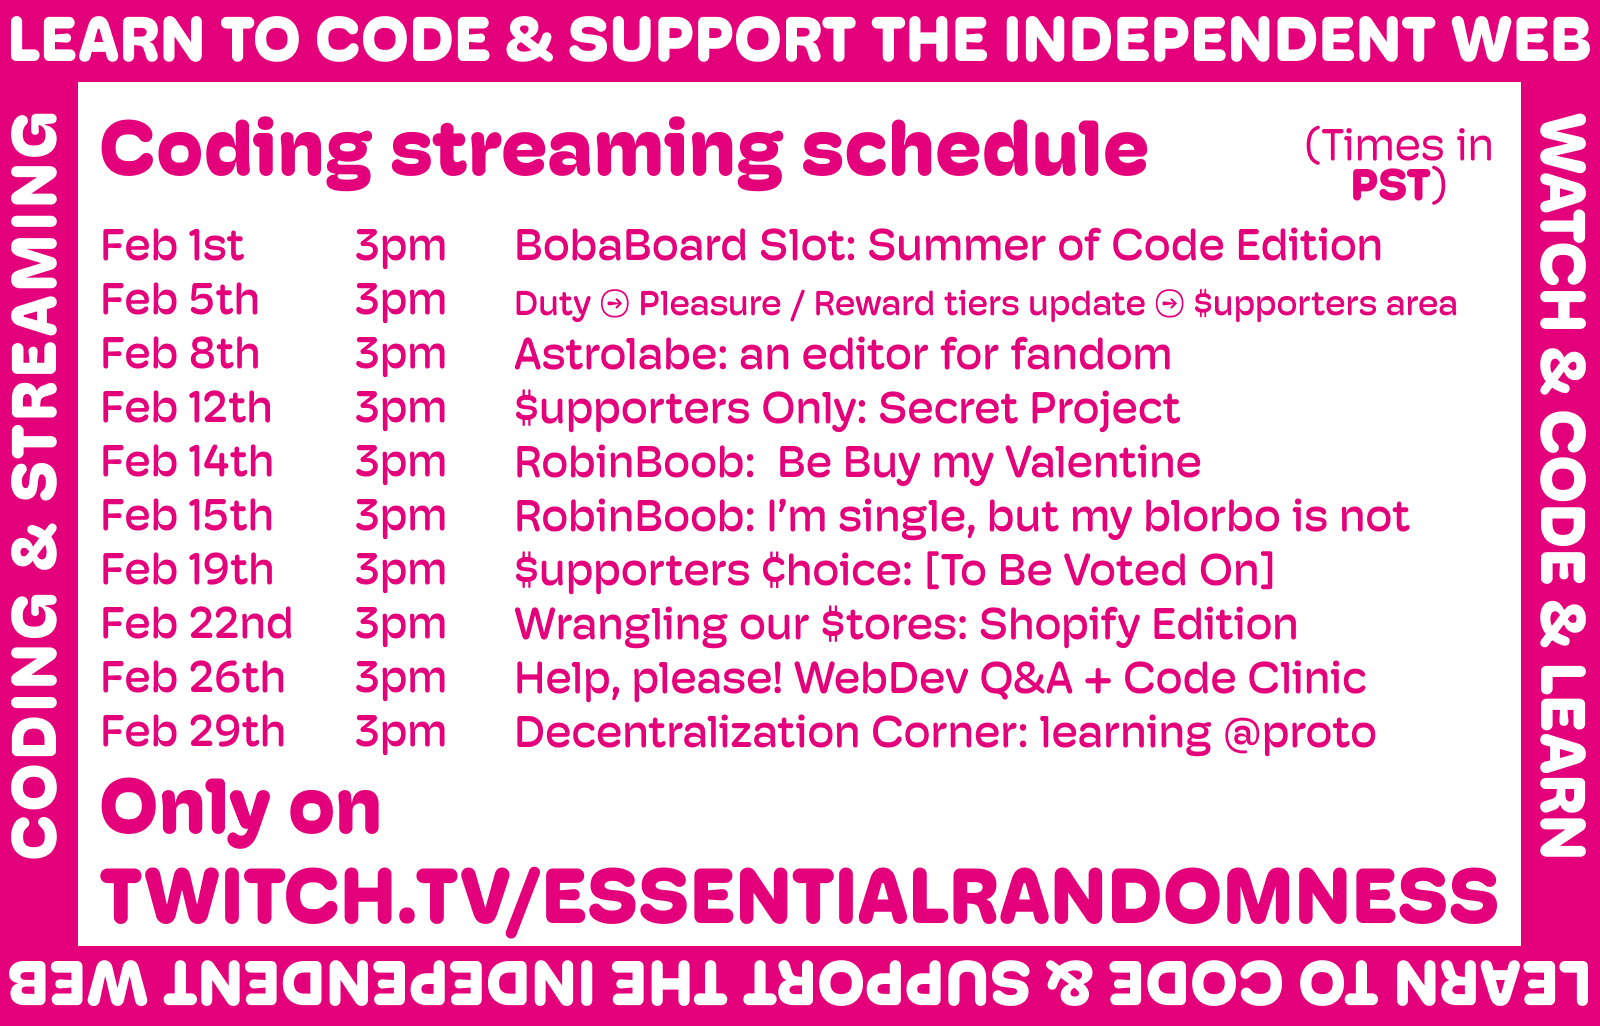
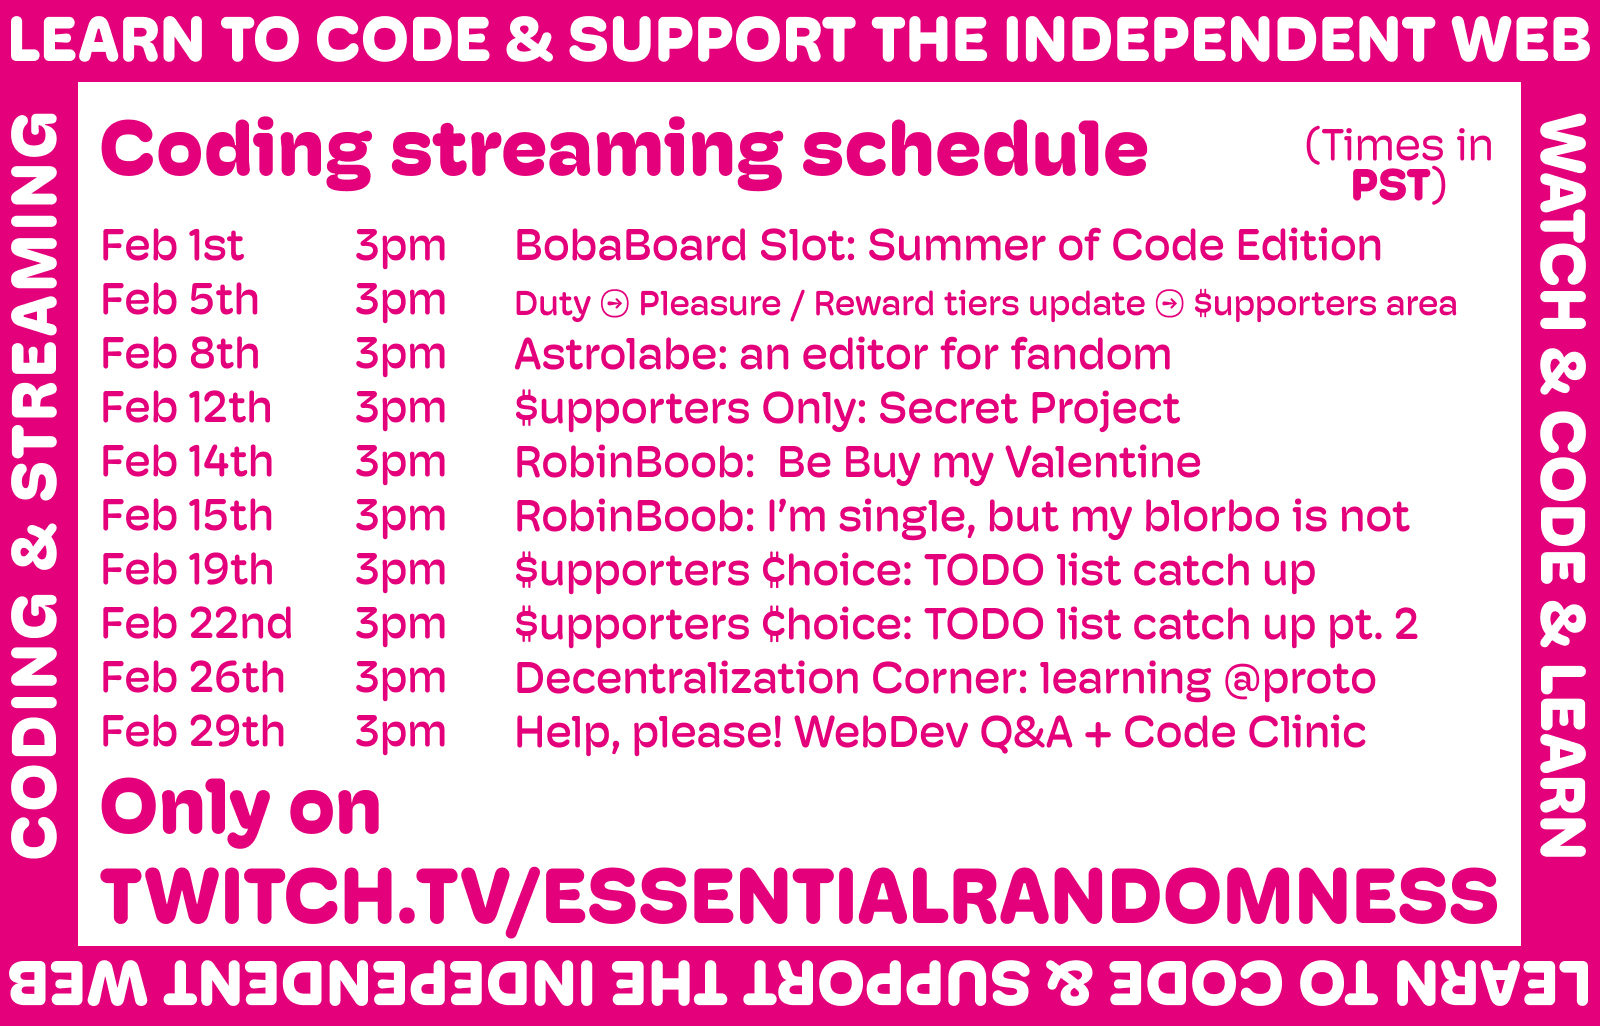
new streaming schedule

Changed region(s): [[0.3125, 0.5302, 0.9062, 0.7485]]

diff --git a/.astro/types.d.ts b/.astro/types.d.ts
@@ -478,6 +478,13 @@ declare module 'astro:content' {
   collection: "streams";
   data: InferEntrySchema<"streams">
 } & { render(): Render[".md"] };
+"2024-02/22-supporters-choice-2.md": {
+	id: "2024-02/22-supporters-choice-2.md";
+  slug: "2024-02/22-supporters-choice-2";
+  body: string;
+  collection: "streams";
+  data: InferEntrySchema<"streams">
+} & { render(): Render[".md"] };
 "2024-02/26-q-and-a-clinic.md": {
 	id: "2024-02/26-q-and-a-clinic.md";
   slug: "2024-02/26-q-and-a-clinic";
@@ -630,5 +637,5 @@ declare module 'astro:content' {
 
 	type AnyEntryMap = ContentEntryMap & DataEntryMap;
 
-	export type ContentConfig = typeof import("../src/content/config.js");
+	type ContentConfig = typeof import("../src/content/config");
 }

diff --git a/src/components/streams/utils.ts b/src/components/streams/utils.ts
@@ -1,9 +1,19 @@
 const HOUR_MS = 60 * 60 * 1000;
 
 export const filterStreamsByTime =
-  ({ after, before }: { after: Date; before: Date }) =>
-  (stream: { data: { scheduled_at: Date } }) =>
-    stream.data.scheduled_at > after && stream.data.scheduled_at < before;
+  ({
+    after,
+    before,
+    withCancelled = false,
+  }: {
+    after: Date;
+    before: Date;
+    withCancelled?: boolean;
+  }) =>
+  (stream: { data: { scheduled_at: Date; cancelled: boolean } }) =>
+    (withCancelled || !stream.data.cancelled) &&
+    stream.data.scheduled_at > after &&
+    stream.data.scheduled_at < before;
 
 export const findNextStream = (
   streams: Array<

diff --git a/src/content/streams/_config.ts b/src/content/streams/_config.ts
@@ -24,5 +24,6 @@ export const streams = defineCollection({
         );
       }),
       tags: z.array(z.string()).optional().default([]),
+      cancelled: z.boolean().default(false),
     }),
 });

diff --git a/src/content/streams/2024-02/29-decentralization-corner.md b/src/content/streams/2024-02/29-decentralization-corner.md
@@ -4,7 +4,7 @@ description: |
   On this edition of "decentralization corner", we look at one of the up-and-coming technologies in the
   social networks space: [@proto](https://atproto.com/), the protocol behind BlueSky. If time permits,
   we'll also look into [generating a custom feed](https://github.com/bluesky-social/feed-generator) of Fandom Coders!
-scheduled_at: 2024-02-29 15:00:00
+scheduled_at: 2024-02-26 15:00:00
 tags:
   - decentralization corner
   - beginners welcome

diff --git a/src/content/streams/2024-02/22-supporters-choice-2.md b/src/content/streams/2024-02/22-supporters-choice-2.md
@@ -1,0 +1,11 @@
+---
+title: "$upporters ¢hoice: TODO list catch up pt. 2"
+description: |
+  [$upporters](https://www.essentialrandomness.com/posts) voted to help me catch up with my endless TODO list
+  (thank you ;_;), but, alas, "this TODO list got hands". Luckily, I can just make the executive choice to 
+  extend the catch up stream to one more day! Executive powers.
+scheduled_at: 2024-02-22 15:00:00
+tags:
+  - $upporters ¢hoice
+  - beginners welcome
+---

diff --git a/src/content/streams/2024-02/26-q-and-a-clinic.md b/src/content/streams/2024-02/26-q-and-a-clinic.md
@@ -3,7 +3,7 @@ title: "Help, please! WebDev Q&A + Code Clinic"
 description: |
   Code not working? WebDev concepts (and programming) getting you down? On this stream, you
   get to bring us your questions and issues, and we'll do our best to answer and solve them!
-scheduled_at: 2024-02-26 15:00:00
+scheduled_at: 2024-02-29 15:00:00
 tags:
   - beginners-friendly
 ---

diff --git a/src/content/streams/2024-02/22-stores-revamp.md b/src/content/streams/2024-02/22-stores-revamp.md
@@ -5,6 +5,7 @@ description: |
   Ecwid's API has been–pardon our french–a *pain in the ass*. In this stream, we'll begin moving
   to Shopify, and learn how to use  [an Astro website starter](https://astro.build/themes/details/astro-shopify/)!
 scheduled_at: 2024-02-22 15:00:00
+cancelled: true
 tags:
   - beginners-friendly
 ---
